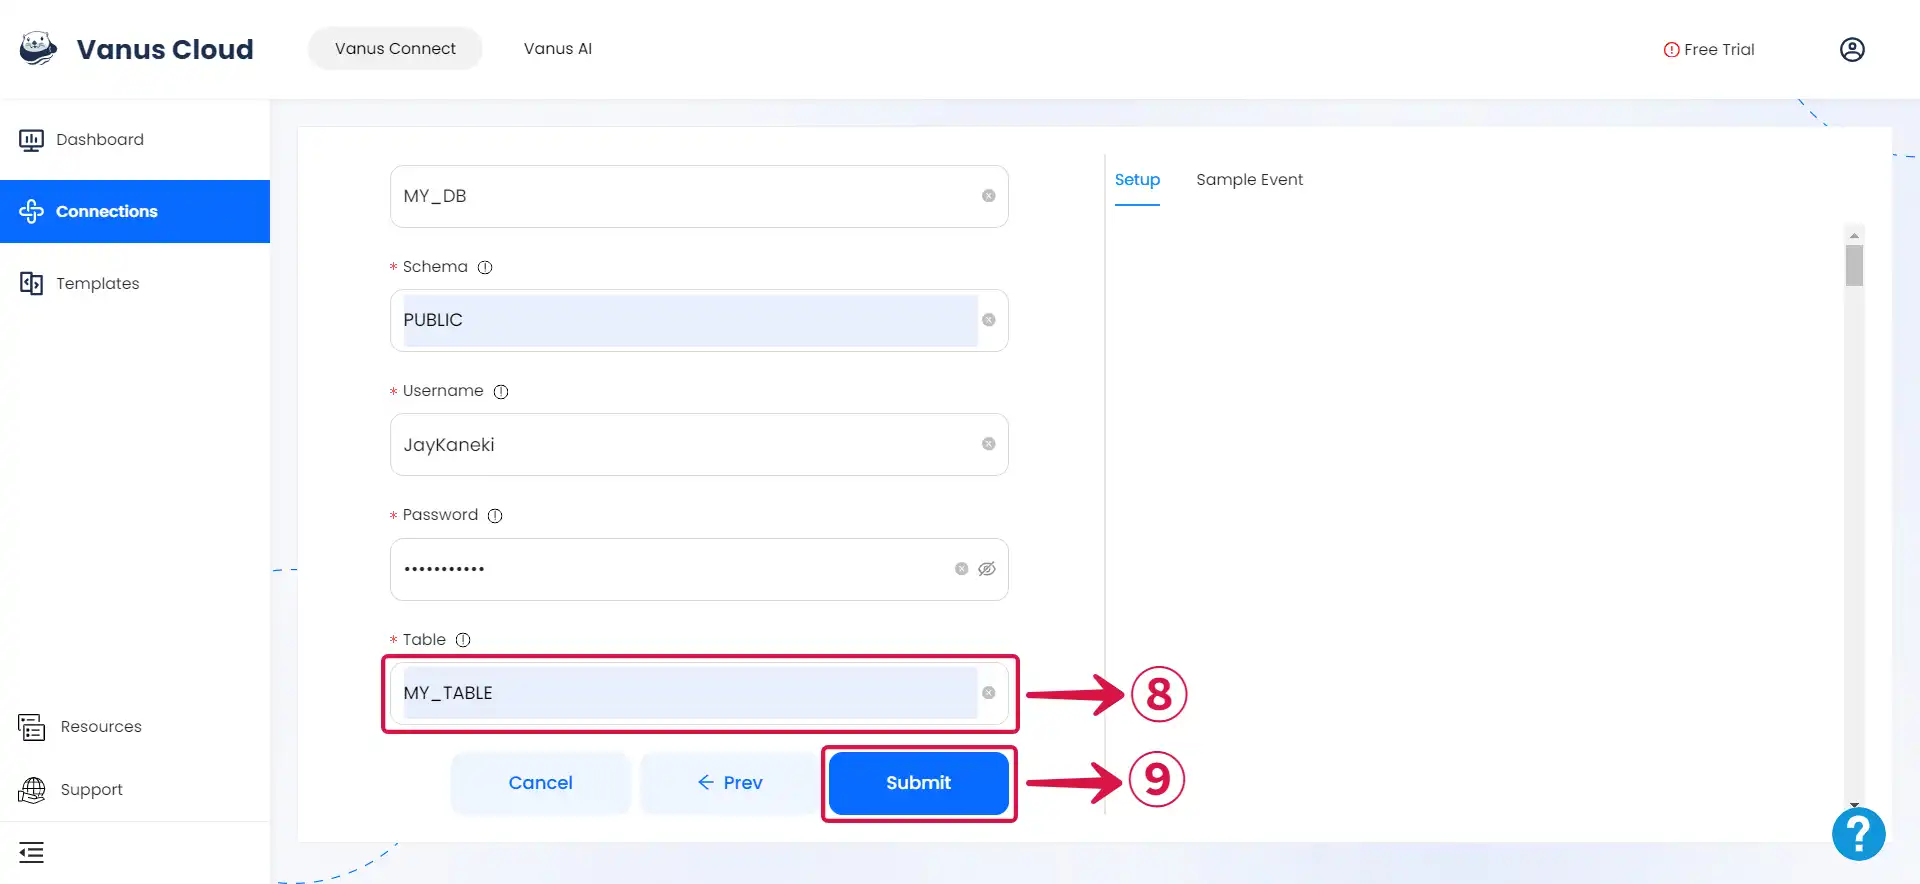
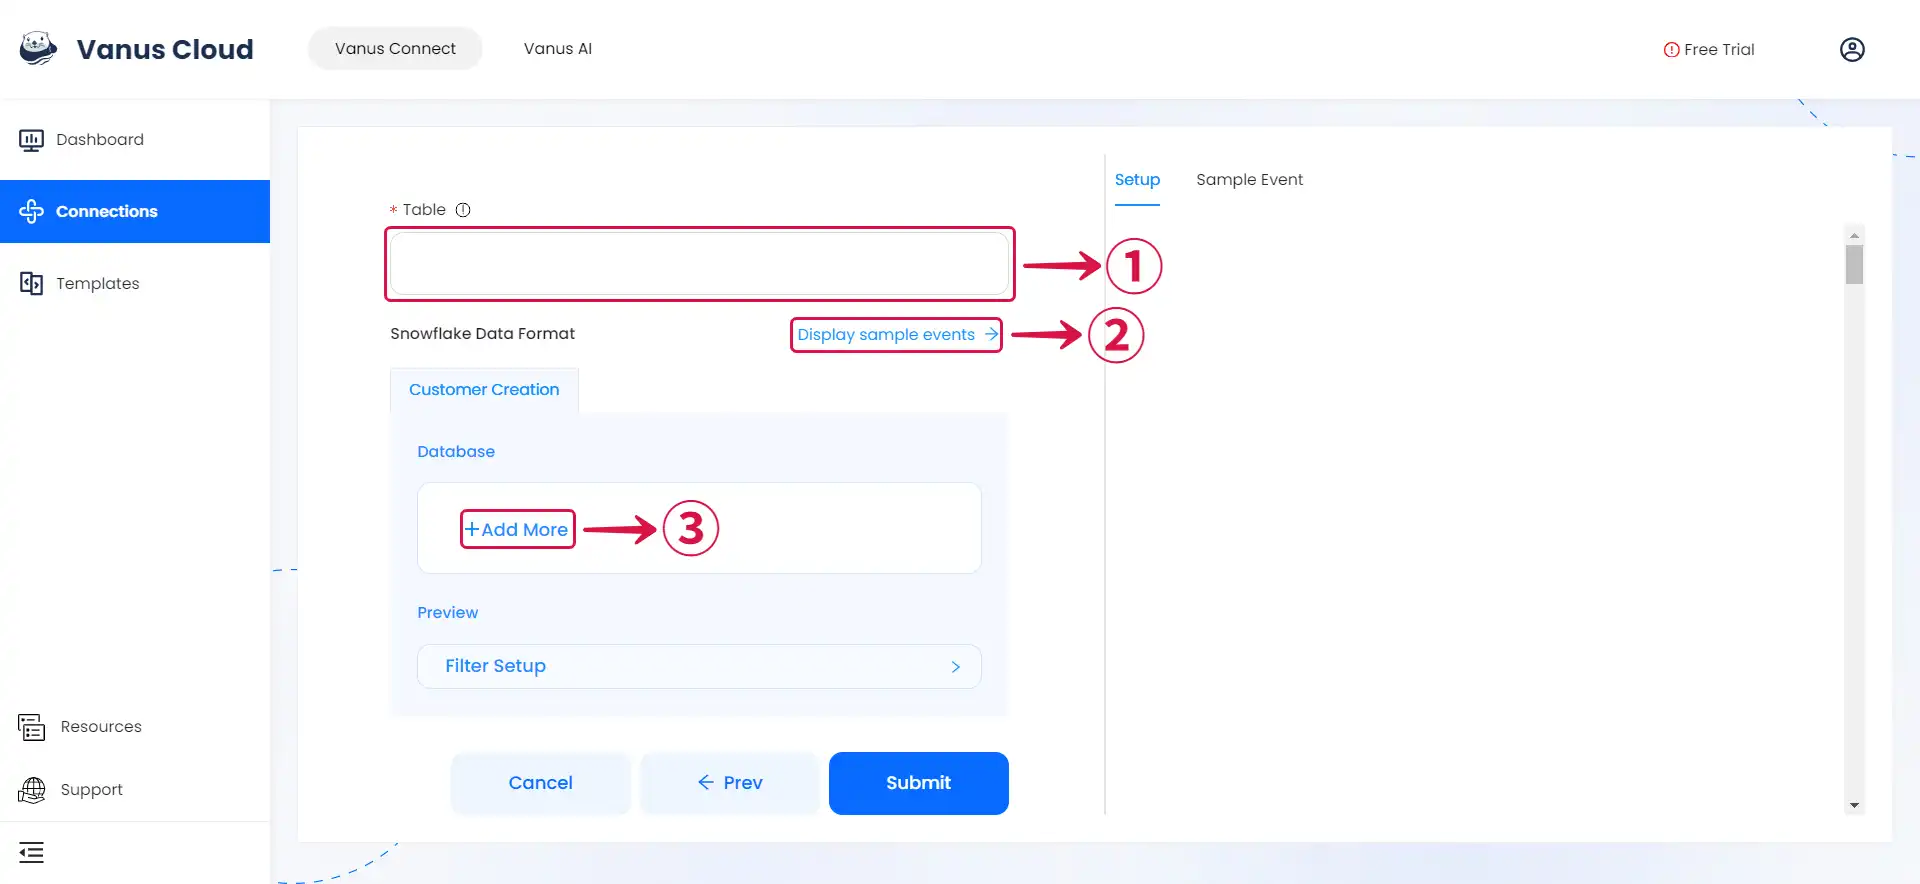
Docs: Snowflake sink fix update (#690)

diff --git a/content/vanus-connect/connector-guides/sink/snowflake/setup.md b/content/vanus-connect/connector-guides/sink/snowflake/setup.md
@@ -114,9 +114,23 @@ We utilized the default role, warehouse, and schema, but you have the option to 
 
 ![snowflake-sink-15](images/snowflake-sink-15.webp)
 
-2. Create a **Table**⑧ by entering a name, and then click **Submit**⑨ to complete the configuration.
+### Personalize Event Structure
+
+:::note
+This is a general instruction on how to personalize your event structure. You can structure your events to suit your specific requirements and create connections for different scenarios.
+:::
+
+1. Create a **Table**① by entering a name, click on **Display sample events**② for reference and click on **Add More**③ to add events.
 
 ![snowflake-sink-16](images/snowflake-sink-16.webp)
+
+2. **Input key**④ and search for the corresponding **value**⑤ for the event you want.
+
+![snowflake-sink-17](images/snowflake-sink-17.webp)
+
+3. You can fill in as many **key-value pairs**⑥ as you wish to receive, and then click **Submit**⑦ to finish the configuration process.
+
+![snowflake-sink-18](images/snowflake-sink-18.webp)
 
 ## Required Data Format
 

diff --git a/content/cloud-docs/sink/snowflake/setup.md b/content/cloud-docs/sink/snowflake/setup.md
@@ -109,9 +109,23 @@ We utilized the default role, warehouse, and schema, but you have the option to 
 
 ![snowflake-sink-15](images/snowflake-sink-15.webp)
 
-2. Create a **Table**⑧ by entering a name, and then click **Submit**⑨ to complete the configuration.
+### Personalize Event Structure
+
+:::note
+This is a general instruction on how to personalize your event structure. You can structure your events to suit your specific requirements and create connections for different scenarios.
+:::
+
+1. Create a **Table**① by entering a name, click on **Display sample events**② for reference and click on **Add More**③ to add events.
 
 ![snowflake-sink-16](images/snowflake-sink-16.webp)
+
+2. **Input key**④ and search for the corresponding **value**⑤ for the event you want.
+
+![snowflake-sink-17](images/snowflake-sink-17.webp)
+
+3. You can fill in as many **key-value pairs**⑥ as you wish to receive, and then click **Submit**⑦ to finish the configuration process.
+
+![snowflake-sink-18](images/snowflake-sink-18.webp)
 
 ---
 
